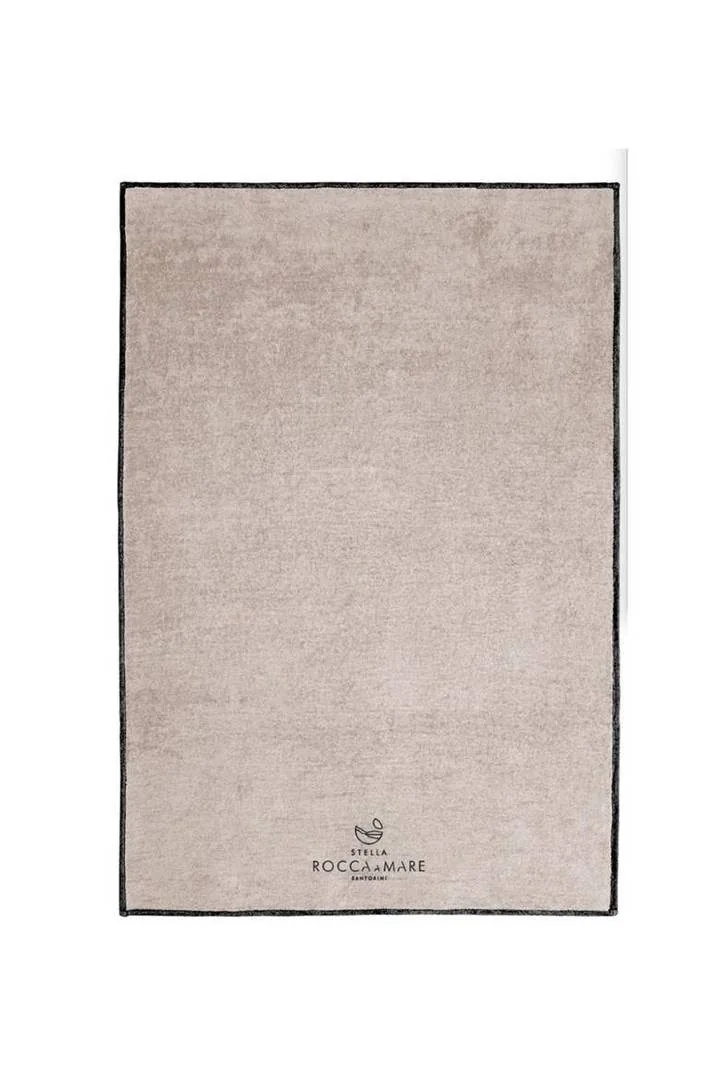
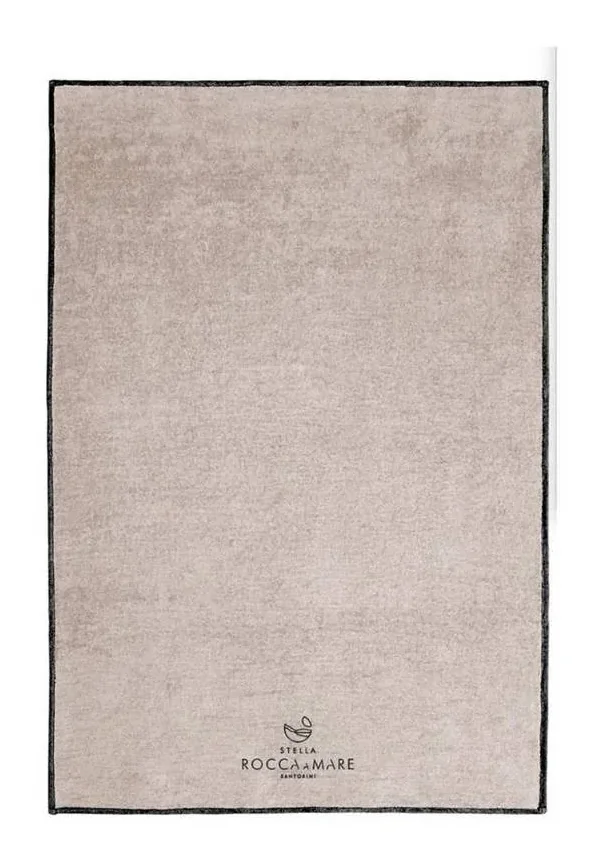
Lookbook: centre 'My selection' in the phone bar; larger Twist Towel photo (trimmed white margins)
Reported by Kriton.

Claude-Session: https://claude.ai/code/session_01H7nAhiLRPzFjbK9f461VmJ

Changed region(s): [[0.0597, 0.0625, 0.9254, 0.9688], [0.209, 0.625, 0.2388, 0.6562], [0.209, 0.5625, 0.2388, 0.5938]]

diff --git a/lookbook/index.html b/lookbook/index.html
@@ -166,7 +166,7 @@ html,body{height:100%;overflow:hidden}
   .ctrl{left:0;right:0;bottom:0;border-radius:0;border:0;border-top:1px solid var(--line);box-shadow:none;height:calc(56px + env(safe-area-inset-bottom,0px));padding:0 10px env(safe-area-inset-bottom,0px);justify-content:flex-end;gap:6px;background:var(--paper)}
   .ctrl button{width:38px;height:38px;font-size:16px}
   .ctrl .count{font-size:12px;min-width:48px}
-  .mysel{left:10px;bottom:calc(9px + env(safe-area-inset-bottom,0px));padding:9px 12px;font-size:11px;box-shadow:none}
+  .mysel{left:10px;bottom:auto;top:calc(100svh - 56px - env(safe-area-inset-bottom,0px) + 10px);height:36px;display:inline-flex;align-items:center;padding:0 12px;font-size:11px;box-shadow:none;z-index:31}
   .mysel b{min-width:18px;padding:0 5px;margin-left:4px}
   .hint{top:12px;bottom:auto}
 }
@@ -174,6 +174,7 @@ html,body{height:100%;overflow:hidden}
 
 .card img.cut,.split .media img.cut{object-fit:contain;background:transparent;padding:6px}
 .split .media img.cut{background:#fff}
+.split .media img.twist{padding:4%}
 .g6{grid-template-columns:repeat(6,minmax(0,1fr))}
 .g6 .card img{height:min(34vh,380px)}
 .bags2{max-width:900px}
@@ -287,7 +288,7 @@ html,body{height:100%;overflow:hidden}
 </section>
 
 <section class="split">
-  <div class="media"><img src="/uploads/lookbook/twist-towel.webp" alt="Greige Twist Towel with a black border" class="cut" loading="lazy"></div>
+  <div class="media"><img src="/uploads/lookbook/twist-towel.webp" alt="Greige Twist Towel with a black border" class="cut twist" loading="lazy"></div>
   <div class="text rv">
     <p class="eyebrow">Pool &amp; Beach</p><h2>Twist Towel</h2>
     <p class="lead">Pool towel with a twisted-yarn texture and your logo embroidered.</p>
